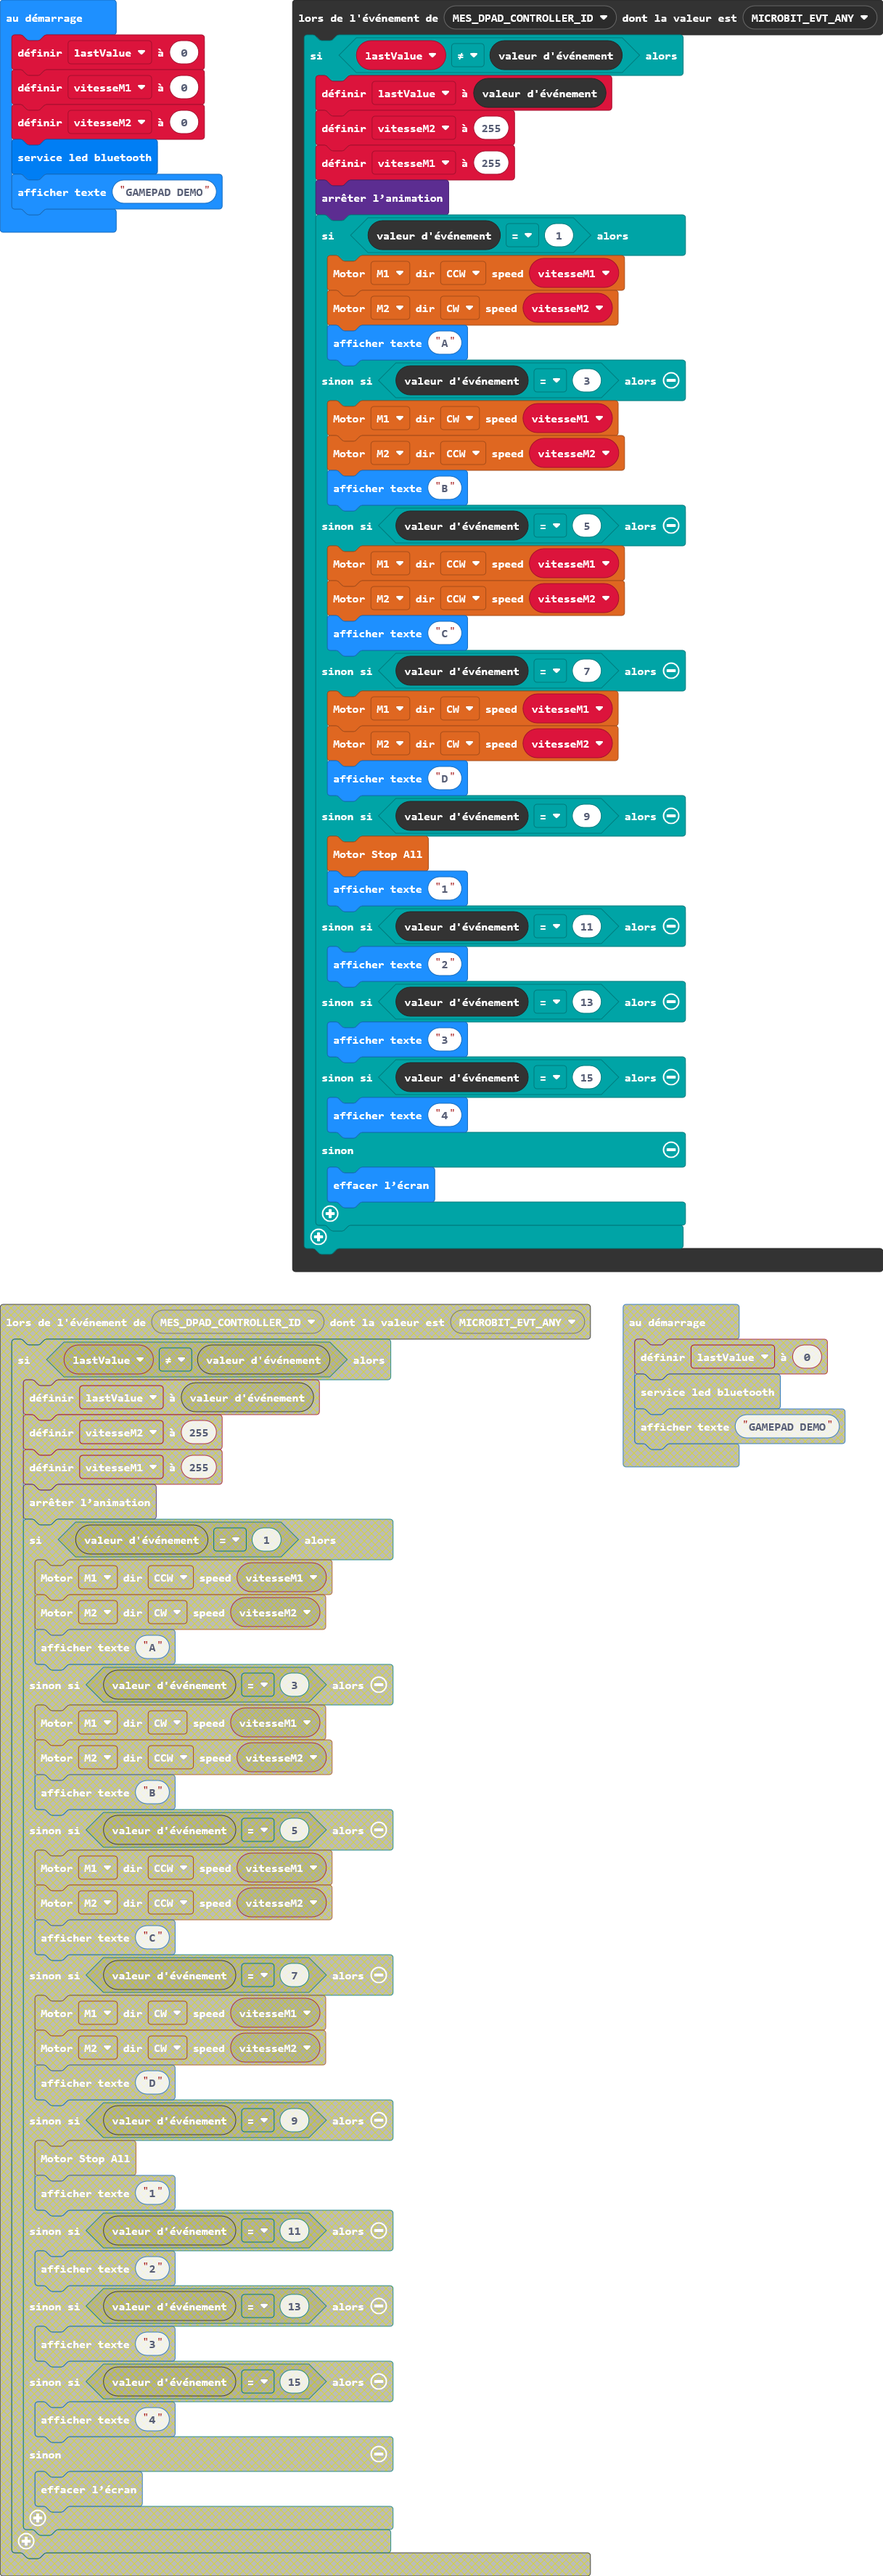
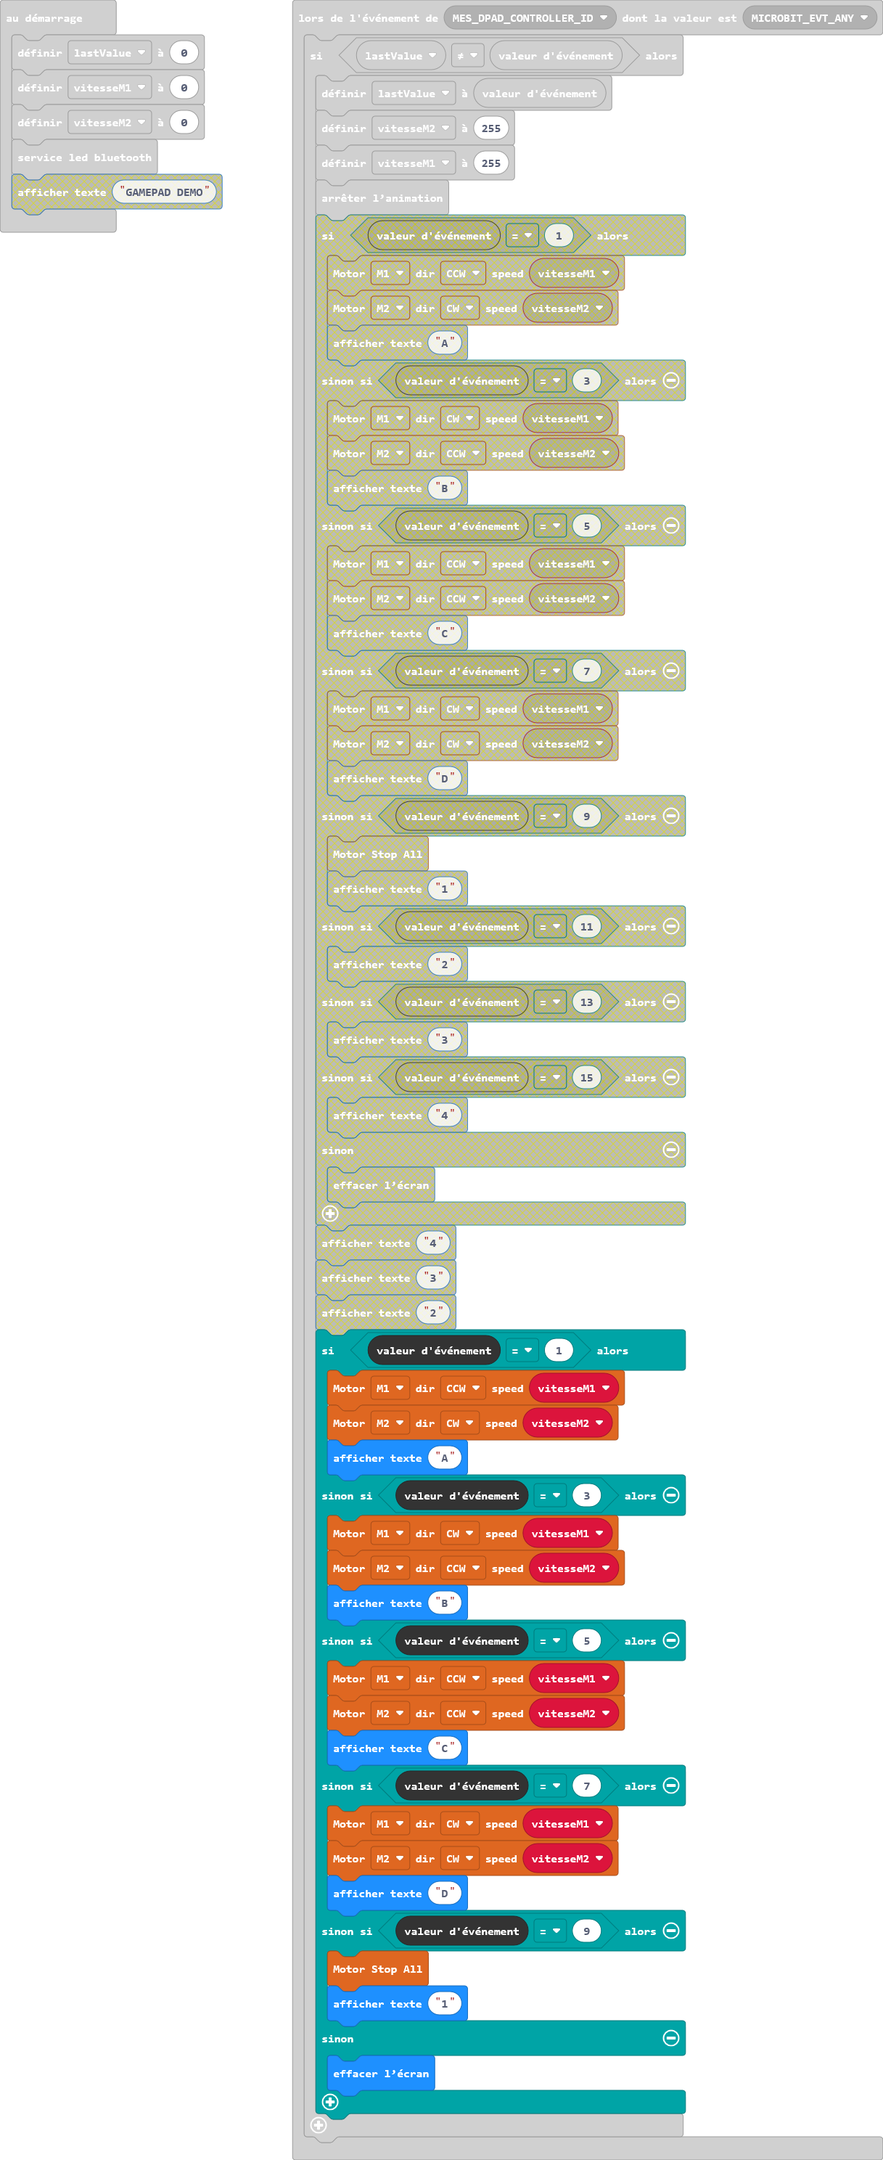
Mise à jour main.blocks, main.ts, main.py

diff --git a/main.ts b/main.ts
@@ -23,12 +23,6 @@ control.onEvent(EventBusSource.MES_DPAD_CONTROLLER_ID, EventBusValue.MICROBIT_EV
         } else if (control.eventValue() == 9) {
             motor.motorStopAll()
             basic.showString("1")
-        } else if (control.eventValue() == 11) {
-            basic.showString("2")
-        } else if (control.eventValue() == 13) {
-            basic.showString("3")
-        } else if (control.eventValue() == 15) {
-            basic.showString("4")
         } else {
             basic.clearScreen()
         }
@@ -41,4 +35,3 @@ lastValue = 0
 vitesseM1 = 0
 vitesseM2 = 0
 bluetooth.startLEDService()
-basic.showString("GAMEPAD DEMO")

diff --git a/main.py b/main.py
@@ -24,21 +24,17 @@ def on_mes_dpad_controller_id_microbit_evt():
         elif control.event_value() == 9:
             motor.motor_stop_all()
             basic.show_string("1")
-        elif control.event_value() == 11:
-            basic.show_string("2")
-        elif control.event_value() == 13:
-            basic.show_string("3")
-        elif control.event_value() == 15:
-            basic.show_string("4")
         else:
             basic.clear_screen()
 control.on_event(EventBusSource.MES_DPAD_CONTROLLER_ID,
     EventBusValue.MICROBIT_EVT_ANY,
     on_mes_dpad_controller_id_microbit_evt)
 
+vitesseM2 = 0
+vitesseM1 = 0
+lastValue = 0
+lastValue = 0
 vitesseM1 = 0
 vitesseM2 = 0
-lastValue = 0
-lastValue = 0
 bluetooth.start_led_service()
 basic.show_string("GAMEPAD DEMO")
